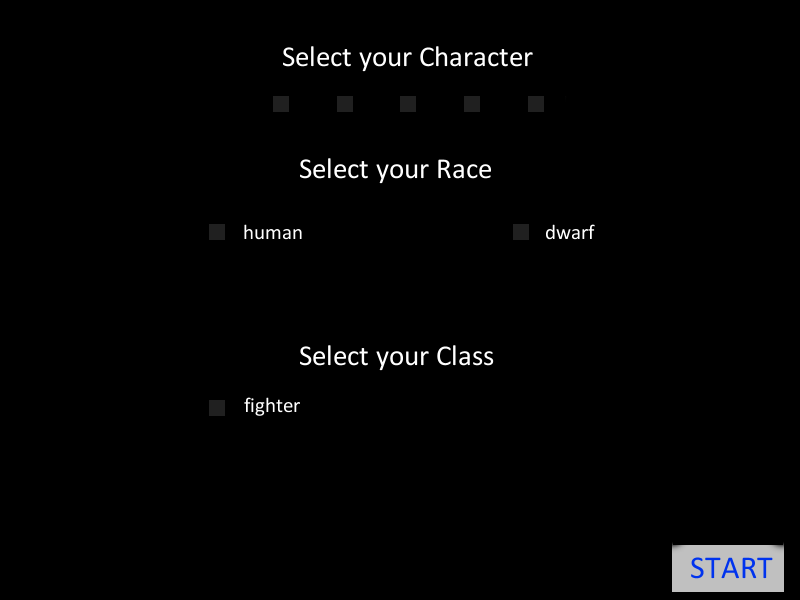
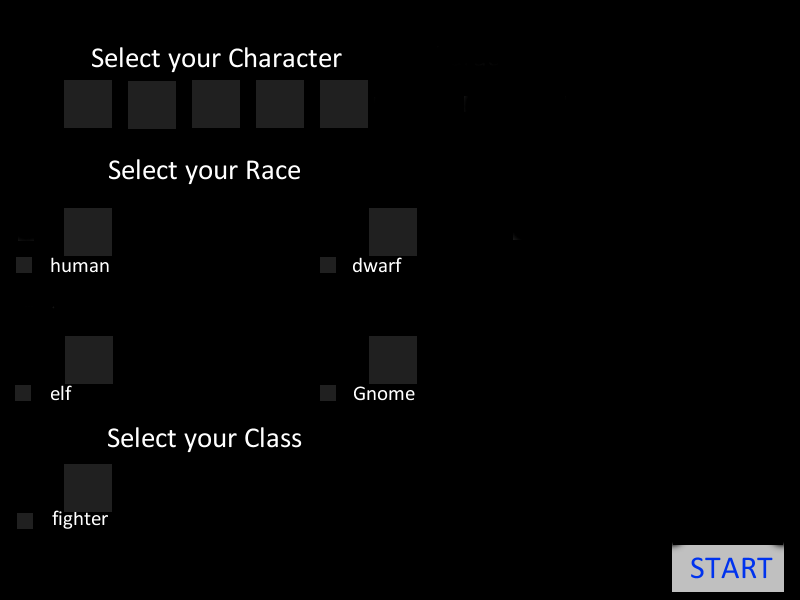
changed the selectScreen.png moved things around made it a little prettier made changes to Screens.cpp accordingly

diff --git a/Screens.cpp b/Screens.cpp
@@ -33,7 +33,7 @@ void SelectionScreen::init()
 
 	for(int i=0;i<NUM_CHARACTERS;i++)
 	{
-		availableSprites[i].x = 272 + (i*64);
+		availableSprites[i].x = 80 + (i*64);
 		availableSprites[i].y = 96;
 		availableSprites[i].clip.w = availableSprites[i].clip.h = 16; 
 	}
